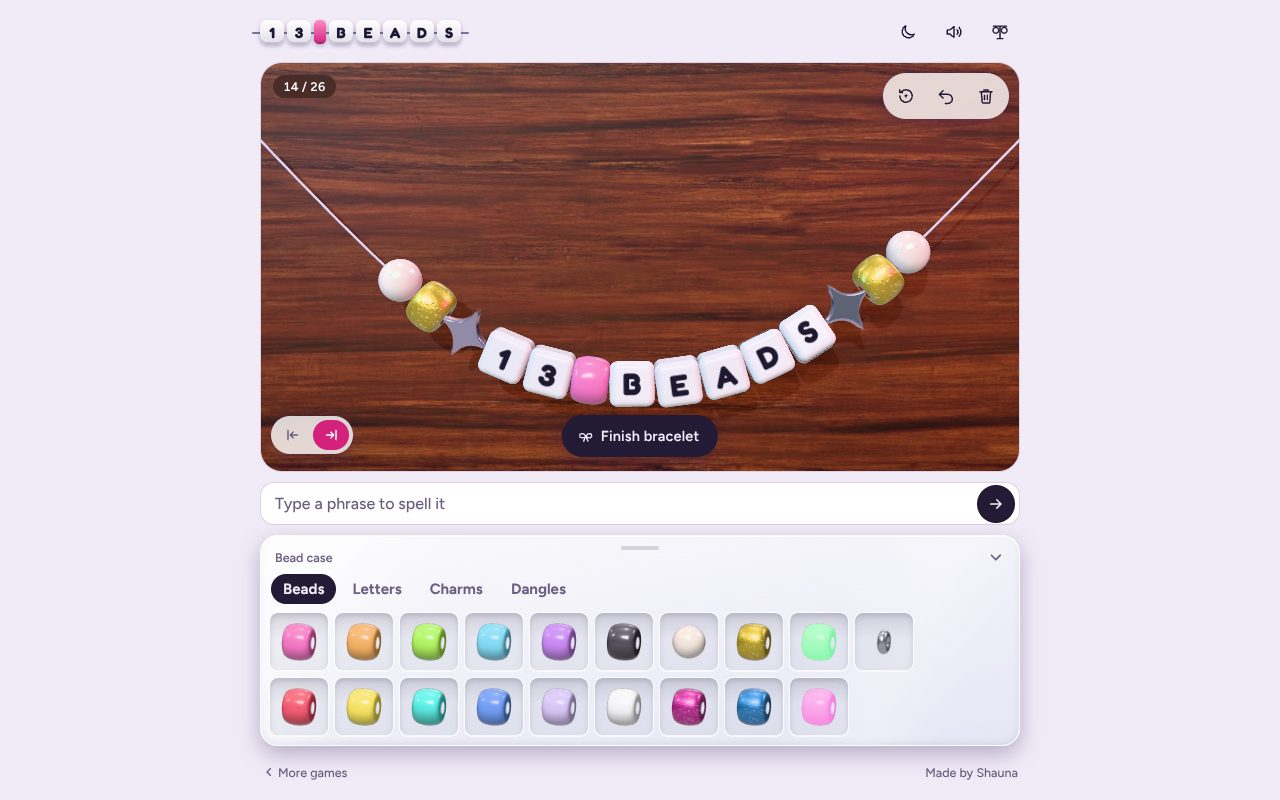
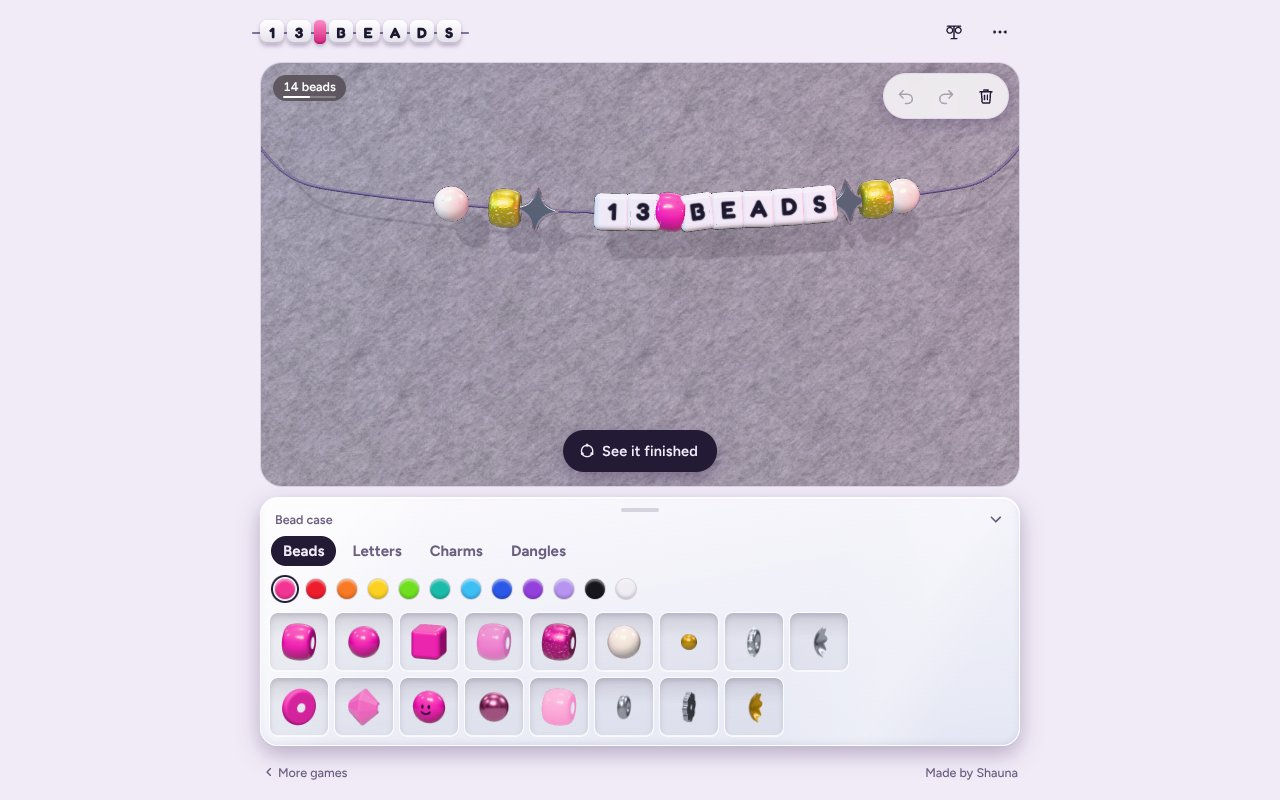
Session 3 checkpoint: status, queue, decisions, findings, README
- PROJECT_STATUS: What exists rewritten to match the live game (felt table, bead case, More menu, share and trade links, velvet cones, neon sign); not-verified list, open questions, 25 decision rows with reasons, older rows marked superseded, and new wrong turns.
- TODO: queue re-ordered with phone checks first, then era presets and the follow-ups waiting on Shauna.
- New finding: where the felt texture came from, and why trade links use per-bead tokens.
- README: code table, asset sources, the TYPE_CODE step for new colored beads, saved keys, and a fresh screenshot.
- CLAUDE.md: the wall key now also holds the sign color.

diff --git a/_docs/PROJECT_STATUS.md b/_docs/PROJECT_STATUS.md
@@ -1,89 +1,70 @@
 # Project status
 
-Last updated: 2026-10-09 (session 3). Everything is on `main` and live. The session 3 list below overrides older details further down where they disagree.
-
-## Session 3 changes (2026-10-09)
-
-- **Bead case:** one compartment per bead type, colored from a 12-color strip above the Beads tab (saved as `13beads.color`). Types: pony, clay disc, round, crystal, solid cube, smiley, jelly, metallic, glitter, glow (all in every color), plus pearl, silver spacer, gold ball spacer, silver daisy spacer, rhinestone rondelle, gold and silver bead caps (a cap turns its cup toward the nearest bead). Bead colors are drawn deeper in mid tones so beads match their dots.
-- **Length budget:** the string holds beads by total width (`BUDGET` in `src/main.js`, about 32 pony beads or 26 letters), not a 26-bead count. The counter shows a fill bar. Shauna wants to revisit this.
-- **View:** the original hanging string, zoomed out a little (beads drawn about 18 percent smaller, finer wood grain). A bead board view (open C on a tilted table) was built, put live, and rejected; it is on branch `bead-board` for reference.
-- **Controls:** no pop-up hint box anywhere (messages go only to a screen-reader live region). Sound, light or dark mode, which end new beads go on, and Start over live in a header More menu. Undo, Redo, and Clear (trash icon, grayed out when the string is empty) are on the canvas. The phrase field is in the Letters tab.
-- **Preview:** "See it finished" ties the loop; that screen offers "Keep editing" and "Add to my wall".
-- **Edit from the wall:** hold or right-click a bracelet on the stand: Edit it, Take it off, or Leave it. Edit puts it back on the string; a string already in progress hangs in its place (unless it is the untouched starter).
-- **Velvet cones replace the T-bar stand:** white velvet bracelet cones (fine pile texture and soft sheen) on a low lacquered display riser, tilted with the cones so its top shows; the riser color follows the wall color. Bracelets stack around a cone as level rings (oldest at the bottom), letters facing out. Up to 12 bracelets: 2 cones of 6 on phones, 3 cones of 4 on wider screens; only as many cones as needed show. Drag sideways on a cone to spin it (it coasts), tap to jingle, hold or right-click a bracelet for Edit / Take it off / Leave it. The old stand is in git history (before commit "Velvet cones").
-- **Confetti:** finishing a bracelet (and tapping the tied loop) throws stadium-style paper confetti: about 100 pastel paper rectangles (pink, baby blue, lavender, butter, white, peach) and about 30 little maple leaves, which pop out, tumble, and flutter down over about 3 seconds. Off with reduced motion.
-- **Trade links and QR codes:** the camera button on the tie-off screen opens "Share this bracelet": an optional gift tag note, then Save card, Send link (share sheet on phones, copied on computers), or QR code. The link is the game address plus `#t=<bead code>&n=<note>`; the bead code is written by `encodeBracelet` in `src/beads.js` (one token per bead, by kind, so new beads never break old links). Opening a link strings the bracelet bead by bead, ties it off with confetti, and shows "A bracelet for you" with the note. "Hang it on my wall" adds it to the wall; "Back to mine" returns to the player's own string, which is set aside and never overwritten. QR codes use the `qrcode-generator` package (MIT).
-- **Shake to spill:** while stringing, two hard jolts of the phone within half a second pour 18 loose beads out of the case (mostly the picked color, some other colors, letters, and the odd charm). They bounce and settle on the table; tap one to string it. Left alone for 12 seconds they roll back into the case. iPhone gets motion access from the same Tilt button tap. Off with reduced motion, and nothing happens on computers.
-- **Tabletop:** gray felt like a bead mat is the default (CC0 photo scan, ambientCG "Fabric 034": `src/assets/felt.jpg` and `felt-normal.jpg`). Wood (Poly Haven "Dark Wood") is still available: More menu, Table: Felt / Wood, saved as `13beads.table`. The cord is a deeper lavender gray on felt and pale on wood.
-- **Wall simplified:** plain painted wall with a soft fade and faint grain. The limewash clouds, plaster ridges, window light, depth-of-field blur, and bracelet shadows on the wall are gone.
-- **Sound:** the guitar no longer goes through the echo.
-- **Neon sign:** always lit, letters spaced like separate tubes, centered between the cones and the top buttons. Sign color is a Decorate choice saved in `13beads.wall` as `neon`: Rainbow (default, each letter its own color), White, Pink, or Blue. Brighter glow at night; by day a soft shadow keeps it readable on a light wall.
-- **Undo and Redo:** both on the canvas, grayed out when there is nothing to step to. Cmd or Ctrl + Z undoes; with Shift (or Ctrl + Y) it redoes. A new change clears the redo history.
-- **Black letters:** the Letters tab has a White / Black switch beside the phrase field. Black letter beads are saved as `{ k: 'letter', ch, st: 'black' }`; typed phrases use the chosen color.
-- **Share card:** on the tie-off screen the camera button opens "Make a share card" with an optional gift tag note (up to 40 characters). It saves a 1080 x 1920 story-sized picture: wordmark, the tied bracelet on the wood, the phrase, the date, the gift tag, and the site address. Phones get the share sheet. On the wall the camera still saves a photo of the wall.
+Last updated: 2026-10-10 (end of session 3). Everything below is on `main` and live, including these docs.
 
 ## What exists
 
 **Stringing (mode `line`)**
-- Controls float on the canvas like the other screens: bead count (top left), Start over, Undo, and Clear icons (top right), the Left/Right end switch as two arrow icons (bottom left), "Finish bracelet" (bottom center), and a hint note that fades. Below the canvas: the phrase field (with an arrow button inside it) and the bead case.
-- 3D string simulated as a weighted rope (Verlet chain with gravity): beads weigh it down where they sit, plucks bend it locally at the finger, tilt tips gravity, and it has a twisted-thread texture.
-- The string lies over a wood tabletop made from a photo-scanned CC0 texture, Poly Haven "Dark Wood" (`src/assets/table-dark.jpg`), in both themes. The cord is pale lavender in both themes so it shows on the dark wood, and the bead counter has a dark backing. In dark mode the room dims and a warm desk lamp pools light in the middle of the table. The table catches shadows but is drawn beneath everything, so the tilted loop never dips behind it, and part of its color is self-lit so the colored stage lights do not tint it.
-- Touch: the string is only caught by a press that starts on it (22 px band on touch screens, 14 px with a mouse) and only follows after the finger moves 8 px. Pulling is silent; the pluck sounds on release if pulled more than 18 px. Only a fast swipe across beads plays strum notes. Double-tap zoom is off (pinch zoom still works). Tap a bead to add it. It slides on, squashes, and plays the next note of the tune.
-- Add to either end of the string (Left / Right switch). Type a phrase and the letters string themselves, playing a quick run of the tune.
-- On the string: tap to pull a bead off, drag to reorder, pluck the string, strum across the beads.
-- Limit of 26 beads. Undo and Clear.
-- Starter bracelet (first visit, and the Start over button): pearl, gold glitter, sparkle, 1 3, hot pink bead, B E A D S, sparkle, gold glitter, pearl. It mirrors the wordmark. Start over is undoable; it does not touch the wall.
-- Tilt leans the string and hanging charms. iPhone shows a Tilt button because it needs a tap for permission.
+- A 3D cord simulated as a weighted rope (Verlet chain with gravity): beads weigh it down, a pluck bends it at the finger, phone tilt tips gravity. Drawn zoomed out a little (`ZOOM = 0.82` in `frame` in `src/main.js`): beads are about 18 percent smaller than the cord has room for.
+- Tabletop: gray felt like a bead mat by default (`src/assets/felt.jpg` and `felt-normal.jpg`, CC0 ambientCG "Fabric 034"), or dark wood (`src/assets/table-dark.jpg`, CC0 Poly Haven "Dark Wood"). Picked in the More menu (Table: Felt / Wood), saved as `13beads.table`. The cord is lavender gray on felt and pale on wood. In dark mode the room dims under a warm desk lamp. The table is drawn beneath everything and is partly self-lit so stage lights do not tint it much.
+- Canvas controls: bead count with a fill bar (top left); Undo, Redo, and Clear (trash) icons (top right, each grayed out when it would do nothing); "See it finished" (bottom center). No pop-up hint box anywhere: messages go only to a hidden screen-reader live region (`#status`).
+- Header: wordmark, Tilt (iPhone only, until allowed), Your wall (with count badge), and a "⋯" More menu: Sound, Light or Dark mode, Table (Felt / Wood), which end new beads go on, and Start over.
+- Touch: tap a case compartment to add a bead (it slides on and plays the next note). On the string: tap to pull a bead off, drag to reorder, pluck the cord (press must start on it), swipe fast to strum. Cmd or Ctrl + Z undoes; with Shift, or Ctrl + Y, redoes.
+- Length budget: the string holds beads by total width (`BUDGET = 25` units, about 32 pony beads or 26 letters, or about 80 clay discs), not by count. Older saved strings over the budget keep all their beads.
+- Starter bracelet (first visit, and Start over): pearl, gold glitter, sparkle, 1 3, hot pink, B E A D S, sparkle, gold glitter, pearl.
+- Shake to spill: on a phone, two hard jolts within half a second pour 18 loose beads onto the table (mostly the picked color, some letters, the odd charm). Tap one to string it; untouched, they roll back into the case after 12 seconds. iPhone gets motion access from the Tilt button tap. Off with reduced motion. Tested only with simulated motion events.
 
-**Bead case**: the tray sits in a clear plastic organizer (recessed compartments with clear walls), one bead picture per compartment. The Beads, Letters, Charms, and Dangles tabs are inside the case. Its top edge is a lid button that folds the case away ("Show beads" brings it back), which gives the string more room.
-
-**Catalog (`src/beads.js`)**
-- Beads tab: 12 colors, pearl, 3 glitter, 2 glow, silver spacer.
-- Letters tab: A to Z, 0 to 9, and ! ? &.
-- Charms tab, 26 (adds heart sunglasses): Lucky 13, star, sparkle, heart, pastel heart, wire heart, mirror ball, jewel, snake, butterfly, cat, seagull, crescent moon, midnight clock, rainbow, evergreen tree, autumn leaf, instant photo, bow and arrow, music note, vinyl record, cassette tape, ticket stub, chihuahua (flat die-cut enamel style), red lips (die-cut), heart sunglasses.
-- Size overrides live in `BOOST` in `src/beads.js`: the newer charms and every dangle are drawn about 1.2 to 1.4 times larger (the mini bracelet 1.75) so they read on a phone. All dangles share roughly one size.
-- Dangles tab, 16 hanging charms (adds a mini bracelet, from Shauna's sticker drawing): guitar, microphone, cowboy boot, cardigan, red scarf, champagne glass, chair, ladder, storm in a teacup (a lightning bolt striking a teacup), lightning rod, redwood tree, showgirl feather, pink cowboy hat, disco cube, snow globe, mini bracelet.
+**Bead case** (clear plastic organizer, lid folds it away; tabs Beads, Letters, Charms, Dangles)
+- Beads tab: a 12-color strip (saved as `13beads.color`), then one compartment per type in that color: pony, clay disc, round, crystal, solid cube, smiley, jelly, metallic, glitter, glow. Then pearl, silver spacer, gold ball spacer, silver daisy spacer, rhinestone rondelle, gold and silver bead caps. A cap turns its cup toward the nearest bead. Mid-tone colors are drawn deeper (`deep` in `src/beads.js`) so beads match their dots.
+- Letters tab: a White / Black letter switch and the phrase field ("Type a word or phrase") on one row, then A to Z, 0 to 9, ! ? &. Black letters are saved as `{ k: 'letter', ch, st: 'black' }`.
+- Charms (26) and Dangles (16 hanging charms): unchanged from session 2; sizes in `BOOST` in `src/beads.js`.
 
 **Tie-off (mode `tied`)**
-- The string morphs into a knotted loop. Drag to spin it, tap for sparkles.
-- Controls float on the canvas: a back arrow labeled "Back to stringing" (top left), camera icon for Save photo (top right), "Add to my wall" (bottom center), and a hint note that fades after a few seconds.
+- The cord morphs into a knotted loop; drag to spin, tap for more confetti. Confetti: about 100 pastel paper pieces and 30 small maple leaves that tumble and flutter down (off with reduced motion).
+- Bottom: "Keep editing" (back to the string) and "Add to my wall".
+- Camera button opens "Share this bracelet": optional gift tag note (40 characters), then Save card (1080 x 1920 story picture: wordmark, the loop, the phrase, the date, the tag, the site address), Send link (share sheet on phones, clipboard on computers), or QR code (`qrcode-generator`, MIT).
+
+**Trade links**
+- Link: game address plus `#t=<code>&n=<note>`. `encodeBracelet` / `decodeBracelet` in `src/beads.js` write one token per bead by kind (letters as themselves, colored beads as type letter plus strip color, everything else as `-name`), so new beads never break old links. Off-strip colors from older bracelets map to the nearest strip color.
+- Opening a link: the code is cleared from the address bar, the player's own string is set aside (`trade.saved`, never saved over), the bracelet strings itself bead by bead and ties off, and a pill reads "A bracelet for you: <note>". "Hang it on my wall" or "Back to mine" (leaving any other way also restores the player's string).
 
 **The wall (mode `stack`)**
-- Limewash plaster wall (soft cloudy tone shifts, fine grain, trowel ridges, all generated in code), slim dark wood floating shelf, gold three-tier T-bar stand, neon-style script sign. The plant is gone, and the stand and shelf cast no shadows.
-- Each wall color has its own night tint.
-- Controls float on the canvas: Decorate and Save photo icons grouped top right, "Make another" (bottom center, dark ink button), and a short hint note that fades. The "on display" label moved to a badge on the header's wall button.
-- Decorate popover: wall color (white by default, pink, or sage) and the neon sign word (defaults to "13 beads", up to 12 letters, numbers, spaces, or ! ? &, shrinks to fit). Saved under `13beads.wall`.
-- Take any bracelet off: press and hold it (phone), or hold or right-click (computer). A confirm popover appears beside it.
-- Keyboard: Tab reaches each bracelet (an invisible button over it, with a focus ring around the bracelet). Arrow keys move between them. Enter or Delete opens the confirm. Popovers keep Tab inside, close on Escape, and return focus.
-- Bracelets hang from gold hooks facing forward. Grab to swing, brush across to knock them, tap for a jingle, tilt to lean.
-- Shows the newest 9 on a phone and 12 on desktop. Up to 24 are remembered.
-- Day mood in light mode (window light across the wall). Evening mood in dark mode (lamp glow, lit neon).
-- Slight depth-of-field blur behind the bracelets.
+- Plain painted wall (white, pink, or sage) with a soft top-to-bottom fade and faint grain; no shadows on it.
+- Display: white velvet bracelet cones (pile texture plus sheen) on a lacquered riser whose color follows the wall; cones and riser tilt slightly toward the viewer. Bracelets stack as level rings around a cone, oldest lowest, letters facing out. Up to 12 shown (2 cones of 6 on phones, 3 cones of 4 wider), up to 24 remembered.
+- Drag sideways on a cone to spin it; tap to jingle; hold or right-click a bracelet for Edit it, Take it off, or Leave it. Edit puts it on the string; a string in progress hangs in its place unless it is the untouched starter.
+- Neon sign: always lit, letters spaced like separate tubes, centered between the cones and the top buttons. Decorate sets the wall color, the sign word (12 characters), and the sign color (Rainbow default, White, Pink, Blue), all saved in `13beads.wall`.
+- Keyboard: Tab reaches each bracelet, Enter or Delete opens its options, popovers trap Tab and close on Escape.
 
-**Header**: the wordmark, then icon buttons for Light/Dark (moon or sun), Tilt, Sound, and Your wall (with a count badge). The theme follows the device until the player taps the toggle; the pick is saved under `13beads.theme`.
+**Sound (`src/audio.js`)**: musical, D major. Stringing plays a melody over I, V, vi, IV; charms add bells; strumming arpeggiates; hanging resolves home. Acoustic guitar voice by default, through a small room reverb. The ping-pong echo is off for the guitar (it made plucks sound doubled); the other voices still use it.
 
-**Footer**: one quiet line at the bottom of every screen: "‹ More games" (games.shauna.digital) on the left, "Made by Shauna" (shauna.digital) on the right.
-
-**Sound (`src/audio.js`)**: musical. Every sound is a note in D major. Stringing beads plays a melody over I, V, vi, IV (four beads per chord), restarting after a 2 second pause, so each bracelet plays its own tune. Charms add a bell an octave up, wood charms drop an octave, fabric charms swell softly. Strumming arpeggiates the current chord, plucking the cord plays its bass note, and hanging a bracelet resolves to the home chord. One instrument voices everything (acoustic guitar by default: a plucked steel string with a pick-position comb, pitch-dependent decay, and wooden body resonances; music box, kalimba, and synth pluck are built in, chosen with `setInstrument`), through a tempo-synced ping-pong echo and a small room.
-
-**Games site**: `games.shauna.digital` is live from the `games` repository, with 13 Beads mounted at `/13-beads`.
+**Footer**: "‹ More games" and "Made by Shauna".
 
 ## Not verified
 
-Shauna tested production on her iPhone during session 2: layout, the string (grab, hang, pluck), the new charms and dangles, the wood table, and the guitar sound all reported good. Still unknown:
+- Shake to spill on a real phone (only simulated motion events were tested), and whether two 17 m/s² jolts is the right strength.
+- Tilt and the iPhone permission button.
+- The phone share sheet for Save card, Send link, and Save photo (only desktop downloads and clipboard were exercised).
+- Trade links on a phone end to end, and QR scanning with a real camera.
+- Cone spinning and press-and-hold on a real phone; wall performance on older phones.
+- Screen reader announcements (keyboard only was tested).
 
-- Tilt, and the iPhone permission button.
-- The phone share sheet for Save photo. Only the desktop download was exercised.
-- Wall performance on phones (depth of field renders the scene more than once per frame). No slowness reported, but not tested on purpose. If slow, turn it off first in `renderWall` in `src/main.js`.
-- Screen reader announcements for the bracelet buttons (tested by keyboard only).
-- Press-and-hold to take a bracelet off, and the Decorate popover, on a real phone.
+## Open with Shauna
+
+- Felt: keep as default? Gray, or tinted (blush, sage, charcoal)?
+- Velvet: good as is, or push it to read more clearly as fabric?
+- Era presets ("Surprise me"): a tile in the Beads tab or a menu item? Album titles or mood and color names? She approved the idea; placement and naming are open.
+- More letter styles: pink letters on white cubes and gold on black?
+- Shake strength, after a real phone test.
+- Length budget: kept for now, to revisit.
+- Name feature (ask the player's name, starter spells it, sign says "<name>'s beads"): not yet.
+- True-size beads: on hold.
 
 ## Decisions
 
 | Date | Decision | Resolution | Why |
 |---|---|---|---|
 | 2026-10-07 | Audience | Concert bracelet-trading fans | Shauna's choice. Drives the phrase-first design and charm list. |
-| 2026-10-07 | Name | "13 Beads" | Name only. It is not a 13-bead limit. The string holds 26 so full phrases fit. |
+| 2026-10-07 | Name | "13 Beads" | Name only. It is not a 13-bead limit. The string holds 26 so full phrases fit. (Superseded 2026-10-09: a length budget replaces the 26 count.) |
 | 2026-10-07 | Rendering | Real 3D with Three.js | Shauna ranked glossy, realistic beads as the top priority over a lighter flat build. |
 | 2026-10-07 | Backend | None. Local storage only | Portfolio piece with nothing to maintain. A collection lives on one device. |
 | 2026-10-07 | Hosting | Vercel, deployed from GitHub, under `games.shauna.digital/13-beads` | Free at this scale, auto-deploys, and the account was already connected. |
@@ -98,8 +79,8 @@ Shauna tested production on her iPhone during session 2: layout, the string (gra
 | 2026-10-08 | Collection concept | A decorated wall, like a fan's merch wall | Shauna's idea. A wall can display every future craft. A jacket could only hold bracelets. |
 | 2026-10-08 | Heart hands built in code | Rejected twice | Tubes and spheres cannot make convincing hands. Needs a real 3D model. |
 | 2026-10-08 | MakerWorld heart-hands model | Not usable | Its license forbids hosting or distributing the file. |
-| 2026-10-08 | Current display piece | Gold T-bar stand | Geometric, so it renders well in code. Shauna approved it as the display for now. |
-| 2026-10-08 | Bracelets on the T-bar | Hang from hooks facing forward | On a real T-bar they sit edge-on and phrases cannot be read. |
+| 2026-10-08 | Current display piece | Gold T-bar stand | Geometric, so it renders well in code. Shauna approved it as the display for now. (Superseded 2026-10-09: velvet cones.) |
+| 2026-10-08 | Bracelets on the T-bar | Hang from hooks facing forward | On a real T-bar they sit edge-on and phrases cannot be read. (Superseded 2026-10-09: rings around cones.) |
 | 2026-10-08 | Wall color | Soft pink painted plaster | Shauna chose a painted wall to start. Whether players pick the color is still open. (Superseded the same day: player picks, white default.) |
 | 2026-10-08 | Unlocks and trading links | Deferred | Shauna: hold until the core is further along. |
 | 2026-10-08 | Wall and tie-off controls | Float on the canvas instead of panels below it | Shauna asked. Direct manipulation: act on the bracelet itself, icons in corners, one labeled primary action. |
@@ -111,7 +92,7 @@ Shauna tested production on her iPhone during session 2: layout, the string (gra
 | 2026-10-08 | Night wall | Each color keeps its own feel at night | Shauna asked. |
 | 2026-10-08 | Interface style | Fewer, quieter controls: icon header, grouped icons, one dark primary button | Shauna asked for a simpler, more sophisticated interface. |
 | 2026-10-08 | Back to games | Muted "‹ Games" link at the start of the header | Shauna: visible but not obvious or intrusive. (Superseded 2026-10-09: moved to the footer.) |
-| 2026-10-08 | Sound | Musical: every sound is a note in one key, stringing plays a melody | Shauna rejected both the original sounds and a realistic rebuild, and asked for music notes. |
+| 2026-10-08 | Sound | Musical: every sound is a note in one key, stringing plays a melody | Shauna rejected both the original sounds and a realistic rebuild, and asked for music notes. (2026-10-09: echo off for the guitar.) |
 | 2026-10-08 | Daytime neon on white | Fine for now | Shauna. |
 | 2026-10-09 | Instrument | Acoustic guitar by default | Shauna asked for a guitar option. Music box, kalimba, and synth pluck stay available in code. |
 | 2026-10-09 | Stringing screen | Same on-canvas treatment as the wall and tie-off screens | Shauna approved the simplification pass. |
@@ -119,7 +100,7 @@ Shauna tested production on her iPhone during session 2: layout, the string (gra
 | 2026-10-09 | Stringing surface | Wood (superseded below: Dark Wood in both themes) | Shauna asked for a surface someone would make a bracelet on. |
 | 2026-10-09 | Tray | Clear plastic bead organizer around single-bead pictures, collapsible | Shauna's reference: how people store pony beads in real life. She meant the container, not the bead images; a pile-of-beads version was tried and reverted. |
 | 2026-10-09 | Table surface | Photo-scanned CC0 wood (Poly Haven; Plywood by day at first, then Dark Wood in both themes) | Code-generated wood tiled into bricks, then still looked off. Real scans look right. CC0 needs no credit. Shauna's reference photo is not used (license unknown). |
-| 2026-10-09 | Table wood | Dark Wood in both themes | Shauna's pick from the six CC0 scans. |
+| 2026-10-09 | Table wood | Dark Wood in both themes | Shauna's pick from the six CC0 scans. (Superseded 2026-10-10: felt default, wood selectable.) |
 | 2026-10-09 | Dark mode on the table | Dim room with a warm desk lamp | Shauna's idea. |
 | 2026-10-09 | Light/Dark toggle | Icon in the header; follows the device until used, then remembered | Shauna asked. |
 | 2026-10-09 | "Lover" charm | Not built | Shauna wanted it only if it could look like the real logo; that version will not be made. |
@@ -131,10 +112,35 @@ Shauna tested production on her iPhone during session 2: layout, the string (gra
 | 2026-10-09 | Hanging charm size | All dangles drawn at one size (about 1.3 to 1.4 times the original) | The first eight looked tiny next to the newer ones. Supersedes the 1.02 decision. |
 | 2026-10-09 | Send feedback link | Not added for now; footer stays as is | Shauna: not necessary right now. |
 | 2026-10-09 | Favicon | A tiny bracelet: colored beads on the lower two thirds of a cord loop, top left bare | Shauna asked. A full ring of beads read as a wreath. |
-| 2026-10-09 | Finish button | "Finish bracelet" replaces "Tie it off"; back button reads "Back to stringing" | Shauna: the old wording was poor. |
+| 2026-10-09 | Finish button | "Finish bracelet" replaces "Tie it off"; back button reads "Back to stringing" | Shauna: the old wording was poor. (Superseded 2026-10-09: "See it finished", then "Keep editing".) |
 | 2026-10-09 | String grabbing | Press must start on the string; silent until release | Shauna's phone test: it was too easy to grab by accident and made noise. |
 | 2026-10-09 | Charm set three | Music note, vinyl, cassette, ticket stub, chihuahua, red lips; dangles: storm in a teacup, lightning rod, redwood, showgirl feather, cowboy hat, disco cube, snow globe | Shauna's picks. Organic subjects (chihuahua, lips) use the flat die-cut enamel style of Lucky 13 instead of sculpted primitives. |
 | 2026-10-09 | Song snippets | Not built | Shauna asked about playing part of a real song. A recognizable snippet carries the protected part (melody, hook). Alternative offered: an original easter-egg melody behind a secret phrase. |
+| 2026-10-09 | Bead case | One compartment per bead type plus a 12-color strip; one tap adds a bead | Shauna: too many same-shape beads. The strip keeps adding to one tap (her option A). |
+| 2026-10-09 | New bead types | Clay disc, round, crystal, solid cube, smiley, jelly, metallic; spacers (gold ball, daisy, rondelle) and gold and silver caps | Shauna agreed to the suggested batch. All geometric, so code-built shapes look right. |
+| 2026-10-09 | Clasps and cord choices | Deferred | Shauna. |
+| 2026-10-09 | Bead limit | Length budget (25 units) instead of 26 beads | A count made no sense once clay discs (a third as wide) existed. Revisit later, Shauna said. |
+| 2026-10-09 | Guitar echo | Off for the guitar only | Shauna: plucks sounded doubled. |
+| 2026-10-09 | Bead board view (open C on a tilted table) | Built, put live, rejected | Shauna preferred the hanging string. Kept on branch `bead-board`. |
+| 2026-10-09 | True-size beads and wrist sizes | On hold; one bead size | True size only helps planning if accurate; without it wrist size is irrelevant (Shauna). |
+| 2026-10-09 | View | Hanging string, zoomed out about 18 percent | Shauna: "zoom out a little", then "perfect". |
+| 2026-10-09 | Pop-up hint box | Removed everywhere | Shauna: it blocks the player. Messages still reach screen readers. |
+| 2026-10-09 | Controls | Hybrid: Undo, Redo, Clear on the canvas; Sound, theme, end switch, Start over, Table in a "⋯" menu; phrase field in the Letters tab | Shauna picked option C, then asked for Redo and for Clear back on the canvas as a trash icon. |
+| 2026-10-09 | Finish flow | "See it finished" then "Keep editing" or "Add to my wall" | Shauna wanted to preview the finished bracelet and keep editing. |
+| 2026-10-09 | Edit from the wall | Edit it / Take it off / Leave it; a string in progress swaps onto the wall | Shauna: yes to the swap, so nothing is lost. |
+| 2026-10-09 | Wall background | Plain painted wall; limewash, plaster ridges, window light, depth of field, and wall shadows removed | Shauna: it looked weird and overcomplicated. The shadows read as gray ghosts. |
+| 2026-10-09 | Display piece | White velvet cones on a lacquered riser replace the gold T-bar stand and wood shelf | Shauna was not keen on the stand. Cones are geometric and read like a jewelry counter. The stand is in git history. |
+| 2026-10-09 | Neon sign | Always lit, spaced, larger, raised; Rainbow default with White, Pink, Blue options | Shauna: not right above the stand, not hot pink, more lit, maybe rainbow. |
+| 2026-10-09 | Black letters | Added with a White / Black switch | Shauna asked. Other letter styles are suggested, not built. |
+| 2026-10-09 | Share card and gift tag | Built | Shauna: do it if not too difficult. |
+| 2026-10-09 | Trade links and QR | Built, inside "Share this bracelet" | Shauna said yes; no server needed, nothing to manage. |
+| 2026-10-09 | Confetti | Pastel paper with small maple leaves | Shauna asked for stadium-style confetti with maple leaves. |
+| 2026-10-09 | Shake to spill | Built: tap a loose bead to string it; they roll back after 12 seconds | Shauna approved. |
+| 2026-10-09 | Name feature | Not yet | Shauna. |
+| 2026-10-09 | Era presets | Approved in principle; placement and naming open | Shauna liked the idea. Trademark caution: no artist name, logos, cover art, or lyrics in the app. |
+| 2026-10-10 | Tabletop | Felt bead mat by default, wood selectable | Shauna asked to see felt. Photo scan (CC0), per the wood lesson that code-made textures look fake. |
+| 2026-10-09 | Workflow | Push finished work straight to `main`; never give local run commands | Shauna's rule: she checks on the live site. Recorded in `CLAUDE.md`. |
+
 
 ## Wrong turns worth knowing
 
@@ -148,4 +154,11 @@ Shauna tested production on her iPhone during session 2: layout, the string (gra
 - The Playwright software renderer stalls on element-level screenshots and on click stability checks. Use page screenshots with `clip`, and click with `$eval(sel, e => e.click())`.
 - Vercel preview builds sat in a queue for over 30 minutes once; production builds were not affected afterward. If a preview stalls, check the deployments page.
 - Another session also pushes to `main` (the README screenshot commit). Always `git fetch` and rebase before pushing.
-
+- A new CSS class reused existing names (`.swatch`, `.swatches` from the Decorate popover) and broke both. Check `src/style.css` for a name before adding one.
+- Copying files to the Mac with the device commit tool reported success for two files that did not update before `git commit` ran there, so a commit message listed spacers that were not in it. After copying, check the content on the Mac (`grep`) before committing.
+- The Mac link has no GitHub login. Commit and push from the cloud clone (`/home/claude/13-beads`), then fast-forward the Mac copy with `git fetch` and `git merge --ff-only origin/main`.
+- Pushes to `main` from the cloud were blocked by the permission check until Shauna made "push to main" an explicit project rule; after that they went through.
+- When the questions list changes between replies, keep the numbering stable. Shauna answered an older list once and the numbers no longer matched.
+- `pkill -f "vite preview"` from the shell killed the shell itself. Start the preview with `setsid` on a fresh port instead.
+- In tests, Playwright's `$eval(click)` has `detail` 0, so the More menu opens as if from the keyboard and focuses its first item. That focus ring in screenshots is expected.
+- The share card's QR canvas sat under a global `.stage canvas` rule (absolute, full size). Scope canvas rules to the game canvas.

diff --git a/README.md b/README.md
@@ -24,12 +24,12 @@ npm run dev
 | File | What it holds |
 |---|---|
 | `index.html` | Page structure: header, stage, the bead tray panel, and the controls that float on the canvas for the tie-off and wall screens (`#hud`, shown per mode with `data-show`). |
-| `src/main.js` | The 3D scene, string physics, pointer and tilt input, the tie-off animation, the wall (stand, lighting moods, depth of field), and photo export. |
-| `src/beads.js` | The bead and charm catalog, and the code that builds each one in 3D. |
+| `src/main.js` | The 3D scene, string physics, pointer, tilt, and shake input, the tie-off animation and confetti, the wall (velvet cones, neon sign, lighting moods), the More menu, the share card, trade links, and photo export. |
+| `src/beads.js` | The bead and charm catalog, the code that builds each one in 3D, and the trade link bead code (`encodeBracelet`, `decodeBracelet`). |
 | `src/theme.js` | Light or dark: follows the device until the player uses the header toggle, then remembers their pick. Other code reads `isDark()` and listens with `onTheme()`. |
 | `src/audio.js` | Musical sounds: every sound is a note in one key, voiced by an acoustic guitar model by default. |
 | `src/style.css` | Layout and colors, light and dark. |
-| `src/assets/` | Tabletop texture: CC0 scan from Poly Haven (Dark Wood). |
+| `src/assets/` | Tabletop textures, both CC0 photo scans: felt (ambientCG Fabric 034, color and normal map) and wood (Poly Haven Dark Wood). |
 
 The app has three modes, set by `setMode` in `main.js`: `line` (stringing), `tied` (the finished loop), and `stack` (the wall).
 
@@ -38,12 +38,13 @@ The app has three modes, set by `setMode` in `main.js`: `line` (stringing), `tie
 1. Add an entry to `COLOR_TYPES` (a bead type that comes in every color on the color strip), `FIXED` (a bead with one look), `CHARMS`, or `DANGLES` in `src/beads.js`.
 2. Give it a width in `UNIT`. The string holds beads by total width (`BUDGET` in `src/main.js`), not by count. Hanging charms also go in the `DANGLE` set.
 3. Add a builder for its shape: a `case` in `makeBead` for colored beads, or an entry in `CHARM_BUILDERS` for charms. Hanging charms start with `hanger(g)`.
-4. Optionally give it a sound role in `KIND` in `src/audio.js`: `bell` (adds a bell an octave up), `low` (an octave down), or `soft` (a soft swell).
+4. A new colored type also needs a one-letter code in `TYPE_CODE` (same file), so trade links can carry it.
+5. Optionally give it a sound role in `KIND` in `src/audio.js`: `bell` (adds a bell an octave up), `low` (an octave down), or `soft` (a soft swell).
 
 ## Design rules
 
 - `vite.config.js` sets `base: './'` so the game works both at a domain root and under `/13-beads`. Keep asset paths relative.
-- Saved data keys: `13beads.strand` (the bracelet in progress), `13beads.stack` (finished bracelets), `13beads.wall` (wall color and neon sign word), `13beads.theme` (light or dark, set by the header toggle), and `13beads.color` (the color picked on the bead case's color strip).
+- Saved data keys: `13beads.strand` (the bracelet in progress), `13beads.stack` (finished bracelets), `13beads.wall` (wall color, neon sign word, and sign color), `13beads.theme` (light or dark, set in the More menu), `13beads.color` (the color picked on the bead case's color strip), and `13beads.table` (felt or wood tabletop).
 
 ## Project docs
 

diff --git a/_docs/TODO.md b/_docs/TODO.md
@@ -4,21 +4,21 @@ Top item is the next thing to do.
 
 ## Next
 
-1. **Phone checks still open**: Tilt and its iPhone permission button, the Save photo share sheet, press-and-hold to remove a bracelet, the Decorate popover, and whether the wall feels slow. If slow, turn off depth of field first.
-2. **Heart hands model.** Shauna scans her own sculpture using `_docs/findings/2026-10-08-heart-hands-model.md`, or finds an openly licensed model. Then load it and add it to the wall as a second display piece, and consider a heart-hands charm.
-3. **Drag-to-decorate the wall.** Let the player place and move items. Starter items discussed: fairy lights, instant photos on a wire, a pennant, a disco ball. Shauna's sticker drawings were offered as wall stickers; she said not yet.
-4. **Fairy lights.** The one wall upgrade from the 2026-10-08 list that was not built.
+1. **Phone checks.** On a real phone: shake to spill (tap Tilt first on iPhone; tune the 17 m/s² threshold in `listenShake` if needed), trade links end to end with a QR scan, the share sheet for Save card and Send link, cone spinning and press-and-hold, and Tilt.
+2. **Era presets ("Surprise me").** Approved in principle. Waiting on Shauna for placement (Beads tab tile or "⋯" menu) and naming (album titles or mood and color names). Each preset strings era colors and matching charms; Undo restores. Keep the artist's name, logos, cover art, and lyrics out of the app.
+3. **More letter styles** if Shauna says yes: pink letters on white cubes, gold on black. Add to `LETTER_STYLES` in `src/beads.js` and the `.letter-chip` row; keep at most four.
+4. **Felt follow-up** if asked: a tint (blush, sage, charcoal) via `SURFACES.felt.tint` in `src/main.js`.
+5. **Velvet follow-up** if asked: warmer cone color and stronger edge sheen (`velvet` in `src/main.js`).
+6. **Heart hands model.** Shauna scans her sculpture (`_docs/findings/2026-10-08-heart-hands-model.md`) or finds an openly licensed model.
+7. **Wall decorating.** Only if it can be done well: fairy lights, photos on a wire, drag-to-place items, around the cones.
 
 ## Later, agreed in principle
 
-- Shadow box: a deep frame the player fills with bracelets and keepsakes. From Shauna's own shelf.
-- Keepsake ticket craft: the player designs a ticket (their own text and colors), shown in a clear acrylic frame.
-- Denim jacket craft with patches and pins.
-- Trading links: a bracelet encoded in a link, replayed for the recipient.
-- Unlockable charms. Leading idea: secret phrases plus a few milestones. An original easter-egg melody behind a secret phrase was offered as part of this.
-- Games home page redesign. On hold at Shauna's request. She plans to work on it in other sessions.
+- Name feature: ask the player's name, starter spells it, sign reads "<name>'s beads" (needs the sign's 12-character limit and no-apostrophe rule raised). Shauna: not yet.
+- Clasps and cord choices at the finish step.
+- Length budget: revisit (Shauna).
+- True-size beads with wrist sizes: on hold.
+- Unlockable charms behind secret phrases, with an original easter-egg melody.
+- Shadow box, keepsake ticket craft, denim jacket craft.
+- Games home page redesign (Shauna, other sessions).
 - Optional music player through an official embed.
-
-## Waiting on Shauna
-
-- Order of trading links and unlocks, once the wall is further along.

diff --git a/_docs/findings/2026-10-10-felt-texture-and-trade-codes.md b/_docs/findings/2026-10-10-felt-texture-and-trade-codes.md
@@ -1,0 +1,22 @@
+# Felt texture source, and how trade links encode a bracelet
+
+Date: 2026-10-10
+
+## Question 1: a felt tabletop that looks real
+
+Shauna asked to see felt (like a crafter's bead mat) instead of wood.
+
+- Poly Haven has no plain felt. Its fabric list (`curl -s "https://api.polyhaven.com/assets?t=textures&c=fabric"`) has fleece, boucle, velour, and "caban" (boiled wool, orange). None read as a gray bead mat without heavy recoloring.
+- ambientCG has one: "Fabric 034" (tags: fabric, felt, grey, white). ambientCG assets are CC0, so no credit is needed and hosting is allowed.
+  - Search: `curl -s "https://ambientcg.com/api/v2/full_json?q=felt&type=Material&include=downloadData"`
+  - Download: `https://ambientcg.com/get?file=Fabric034_1K-JPG.zip` (about 8 MB zip; the color and NormalGL maps are what we use).
+- In use: `src/assets/felt.jpg` (color, resized to 768 and recompressed, about 124 KB) and `src/assets/felt-normal.jpg` (normal map, about 112 KB). Wired through `SURFACES` in `src/main.js`, which also holds the wood.
+- The pale lavender cord disappeared on light felt, so each surface sets its own cord color.
+
+Before redoing: the wood lesson still holds (code-generated textures looked fake twice). Use photo scans with a CC0 license.
+
+## Question 2: a bracelet in a link short enough for a QR code
+
+Plain JSON of a 20-bead bracelet is about 600 characters, too dense for a phone-scannable QR code. List-position indexes (one number per catalog entry) would be short but break every old link when a bead is added mid-list.
+
+Chosen: one token per bead, by kind, joined with dots (`encodeBracelet` in `src/beads.js`). Letters are themselves (`x1 x2 x3` for `! ? &`, a leading `_` for black), colored beads are a type letter plus a strip color in hex (`p0` is a hot pink pony bead), and everything else is `-name` (`-pearl`, `-cap:gold`). A 20-bead bracelet is about 60 characters. New bead kinds only need a new token, and a new colored type needs a letter in `TYPE_CODE`.

diff --git a/CLAUDE.md b/CLAUDE.md
@@ -17,7 +17,7 @@ There is no test suite. The check is `npm run build` (must finish with no errors
 
 ## Rules that must hold
 
-- Stack: Vite and Three.js, plain JavaScript modules, no framework, no backend, no accounts. Player data lives in local storage under `13beads.strand`, `13beads.stack`, `13beads.wall` (wall color and neon sign word), `13beads.theme` (light or dark, once the player picks one), `13beads.color` (the color picked on the bead case's color strip), and `13beads.table` (felt or wood tabletop).
+- Stack: Vite and Three.js, plain JavaScript modules, no framework, no backend, no accounts. Player data lives in local storage under `13beads.strand`, `13beads.stack`, `13beads.wall` (wall color, neon sign word, and sign color), `13beads.theme` (light or dark, once the player picks one), `13beads.color` (the color picked on the bead case's color strip), and `13beads.table` (felt or wood tabletop).
 - `vite.config.js` keeps `base: './'`. The game is served both at a domain root and under `/13-beads`.
 - Third-party 3D models need a license that allows hosting on a public site (CC0 or CC BY), or written permission. See the heart-hands finding.
 - Mobile first. Every change is checked at phone width.
